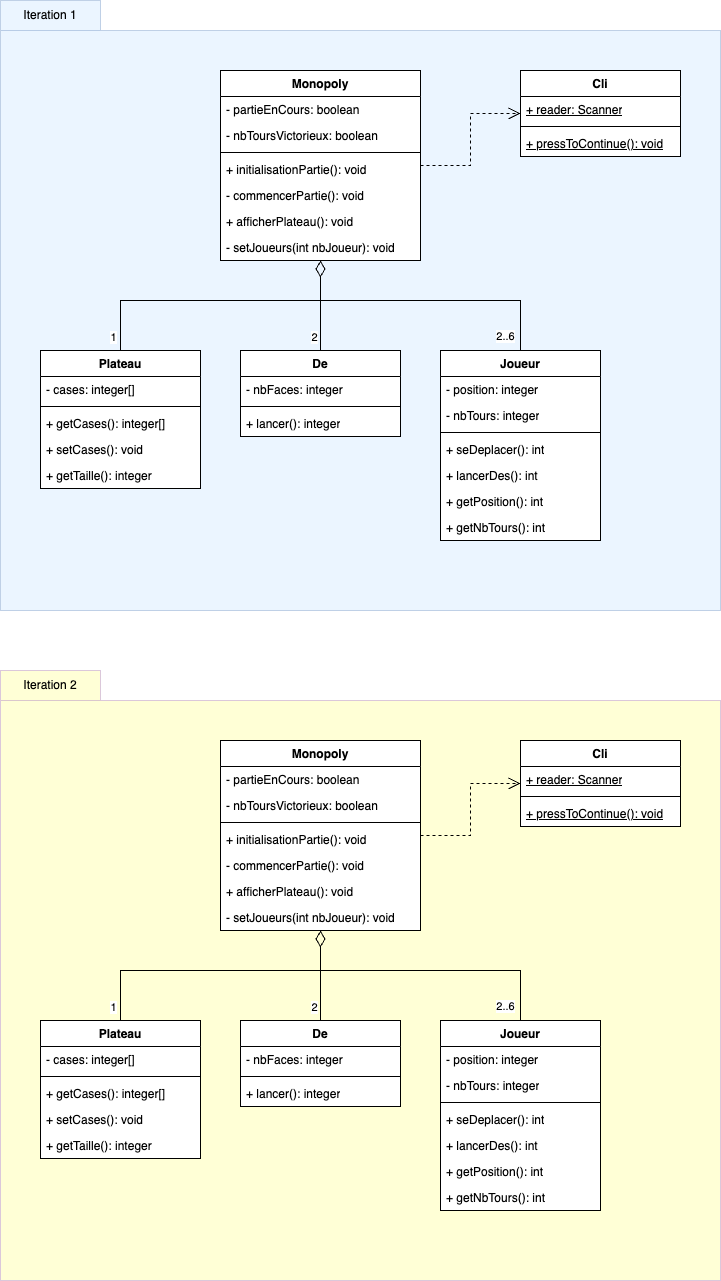
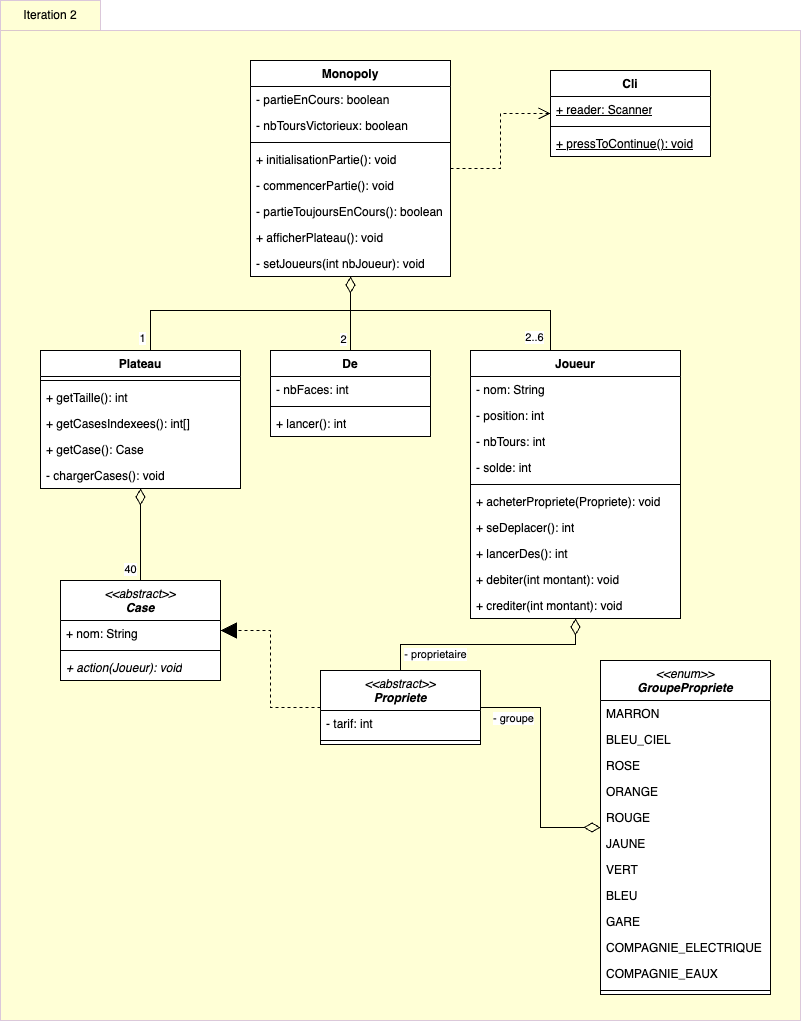
iteration2: solde et cases (terrain, gares, ...)

diff --git a/monopoly/src/iteration2/Monopoly.java b/monopoly/src/iteration2/Monopoly.java
@@ -27,7 +27,6 @@ public class Monopoly {
 
         System.out.println("Initialisation terminée. La partie peut commencer.");
         System.out.println();
-
         this.commencerPartie();
     }
 
@@ -60,7 +59,7 @@ public class Monopoly {
                 if (caseActuelle instanceof Propriete) {
                     Propriete propriete = (Propriete) caseActuelle;
 
-                    if (joueurActuel.getNbTours() < NB_TOURS_AVANT_ACHAT) {
+                    if (joueurActuel.getNbTours() >= NB_TOURS_AVANT_ACHAT) {
                         if (propriete.getProprietaire() == null) {
                             String reponse = Cli
                                     .prompt("Voulez-vous acheter cette propriété pour " + propriete.getTarif() + "€ ?");

diff --git a/monopoly/src/iteration2/Joueur.java b/monopoly/src/iteration2/Joueur.java
@@ -5,12 +5,14 @@ public class Joueur {
     private static int NB_INSTANCE = 0;
 
     private String nom;
-    private int position = 0;
-    private int nbTours = 0;
+    private int position;
+    private int nbTours;
     private int solde;
 
     public Joueur(String nom) {
         setNom(nom);
+        this.position = 0;
+        this.nbTours = 0;
         this.solde = 1500; // Initialisation du solde du joueur par défaut
 
         NB_INSTANCE++;

diff --git a/monopoly/src/iteration2/Case.java b/monopoly/src/iteration2/Case.java
@@ -2,7 +2,7 @@ package iteration2;
 
 public abstract class Case {
 
-    String nom;
+    public String nom;
 
     public Case(String nom) {
         setNom(nom);
